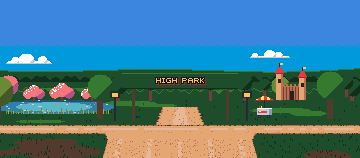
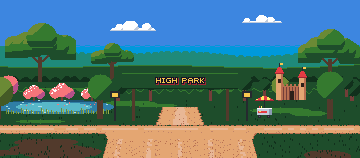
Raise High Park's skyline: tall black oaks and a far wooded ridge over the canopy, clouds higher, and an oak and the ridge on its path card

Changed region(s): [[0.0, 0.1266, 1.0, 0.5316], [0.3056, 0.1266, 0.4278, 0.2025], [0.6722, 0.0759, 0.7944, 0.1519]]

diff --git a/art/tools/backdrops.py b/art/tools/backdrops.py
@@ -12,8 +12,8 @@ its items spawn: only the verge's ground.
 
 Rows, in band rows (0 to 157): the sky is one flat colour above row 45 (CALM), under the message
 strip (band rows 6 to 57 while a message shows), but any neighbourhood's skyline may rise above
-it (Cabbagetown's old trees, chapel spire, far downtown towers and stars; and Yonge Street's
-skyline, moon and stars); the far side's ground row
+it (Cabbagetown's old trees, chapel spire, far downtown towers and stars; High Park's oaks,
+ridge and clouds; and Yonge Street's skyline, moon and stars); the far side's ground row
 115 (BASE), the far sidewalk 119 to 122, the far curb 123 to 124, the cross street 125 to 133
 with its centre line on row 129, the near curb 134 to 135 (none where the cross street has
 none), the near sidewalk 136 to 138, and the stub from row 139 (STUB, the approach) to the
@@ -75,7 +75,7 @@ def word(cv, s, mid, y, col, scale=1):
 
 def sky(cv, top="cyan", low="sky", clouds=()):
     """The sky: top, flat, down to row CALM, then low, with clouds given as (x, base row, width,
-    puff): puff is the tallest lobe's radius, and a cloud's top stays below CALM."""
+    puff): puff is the tallest lobe's radius."""
     cv.fill(0, 0, W, FAR_WALK, low)
     cv.fill(0, 0, W, CALM, top)
     for i in range(0, W, 5):
@@ -337,8 +337,8 @@ BASE = STUB - 24               # the far side's ground row: the houses stand on 
 # The sky above row CALM, 70 rows over the far side's ground row, is one flat colour: the debuff bars and the
 # message strip (band rows 6 to 57 while a message shows) lie over it, so each neighbourhood's main read stays
 # below it. Any neighbourhood's skyline may rise above it, reading half covered while a message shows:
-# Cabbagetown's old trees, chapel spire, far downtown towers and stars; and Yonge Street's skyline, moon and
-# stars.
+# Cabbagetown's old trees, chapel spire, far downtown towers and stars; High Park's oaks, ridge and clouds;
+# and Yonge Street's skyline, moon and stars.
 CALM = BASE - 70
 
 
@@ -972,13 +972,67 @@ def hot_dog_cart(cv, cx, base):
         cv.fill(x, base - 2, 1, 1, "ash")
 
 
+def ridge(cv, top, bottom, col, seed, amp=6, r=4):
+    """A far wooded ridge in col: round treetops of radius about r along a rolling crest from row
+    top (amp rows lower at its dips), filled down to row bottom."""
+    rnd = random.Random(f"ridge-{seed}")
+    crest = [top + amp * (0.5 + 0.5 * math.sin(x * 0.011 + seed) * math.cos(x * 0.027 + seed * 2.1))
+             for x in range(W)]
+    tops = [bottom] * W
+    cx = -r
+    while cx < W + r:
+        rr = r + rnd.choice((-1, 0, 0, 1))
+        cy = crest[min(W - 1, max(0, round(cx)))] + rr
+        for x in range(max(0, round(cx - rr)), min(W, round(cx + rr) + 1)):
+            d = (x + 0.5 - cx) / rr
+            if abs(d) <= 1:
+                tops[x] = min(tops[x], round(cy - rr * math.sqrt(1 - d * d)))
+        cx += rr * 1.5
+    for x in range(W):
+        cv.fill(x, tops[x], 1, bottom - tops[x], col)
+
+
+def oak(cv, cx, top, w, base, seed, lit="canopy", shade="pine", hi="olive", trunk="bark"):
+    """A tall black oak of the savannah: a trunk on row base forking under a broad, ragged crown w
+    wide of flat-bottomed lobes, its top on row top; hi on the lit upper left, shade on the lower
+    right and along each lobe's underside."""
+    rnd = random.Random(f"oak-{seed}")
+    h = round(w * 0.62)
+    lobes = []
+    for i in range(6):
+        lx = cx + (i - 2.5) / 2.5 * w * 0.36 + rnd.uniform(-2, 2)
+        ly = top + h * 0.5 + abs(i - 2.5) * h * 0.08 + rnd.uniform(-2, 2)
+        lobes.append((lx, ly, w * rnd.uniform(0.2, 0.26), h * rnd.uniform(0.32, 0.4)))
+    lobes.append((cx + rnd.uniform(-3, 3), top + h * 0.36, w * 0.24, h * 0.36))
+    under = top + h
+    cv.fill(cx - 2, under - 6, 4, base - under + 6, trunk)
+    for k in range(8):
+        cv.fill(cx - 3 - k, under - 2 - k, 2, 2, trunk)
+        cv.fill(cx + 2 + k, under - 3 - k, 2, 2, trunk)
+    for py in range(top - 2, under + 2):
+        for px in range(round(cx - w / 2) - 3, round(cx + w / 2) + 4):
+            inside = [(lx, ly, rx, ry) for lx, ly, rx, ry in lobes
+                      if ((px + 0.5 - lx) / rx) ** 2 + ((py + 0.5 - ly) / ry) ** 2 <= 1 and py < ly + ry * 0.6]
+            if not inside:
+                continue
+            lx, ly, rx, ry = min(inside, key=lambda q: q[1])
+            u, v = (px + 0.5 - lx) / rx, (py + 0.5 - ly) / ry
+            c = shade if v > 0.25 or u + v > 0.9 else hi if u + v < -0.75 and v < -0.2 else lit
+            cv.fill(px, py, 1, 1, c)
+
+
 def high_park():
     cv = sn.Canvas(W, H)
-    # a deep clear blue, two white clouds over the canopy
-    sky(cv, "azure", "sky", clouds=((6, BASE - 52, 46, 8), (CX + 70, BASE - 58, 40, 6)))
-    # the park's dense canopy runs back over the hills: dark green rises and a fir tree line
-    hills(cv, BASE - 50, BASE - 18, "pine", "canopy", 0.4, 8)
+    # a deep clear blue, two white clouds high over the oaks
+    sky(cv, "azure", "sky", clouds=((CX - 70, 30, 46, 8), (CX + 62, 22, 40, 6)))
+    # a far wooded ridge, dturq in the haze, then the park's dense canopy over the near hills:
+    # dark green rises and a fir tree line
+    ridge(cv, BASE - 70, BASE - 40, "dturq", 1.3, amp=12, r=5)
+    hills(cv, BASE - 54, BASE - 18, "pine", "canopy", 0.4, 8)
     treeline(cv, BASE - 34, ("fir", "pine"), 0.9, 3, 8)
+    # the black oaks of the savannah stand tall over the canopy at the band's edges and by the pond
+    for cx, top, w, seed in ((40, BASE - 92, 64, 1), (CX + 150, BASE - 86, 58, 2), (112, BASE - 72, 36, 3)):
+        oak(cv, cx, top, w, BASE - 26, seed)
     patches = [(60, BASE - 26, 30, 2), (CX + 40, BASE - 24, 24, 2), (CX - 50, BASE - 12, 26, 3),
                (CX - 24, BASE - 10, 20, 2), (CX + 100, BASE - 5, 30, 3), (CX + 128, BASE - 2, 18, 3),
                (40, BASE + 6, 24, 2)]

diff --git a/art/tools/cards.py b/art/tools/cards.py
@@ -865,11 +865,20 @@ def high_park_view():
     # the cross path's middle worn skin1 in broken runs, as the backdrop's, with no line painted on it
     a = ZoneView("high-park", trail, dark, "skin1", (9, 13), curb=None, walk=None, lawn=dark)
     a.sky("azure", "sky")
-    bd.cloud(a, 54, 5, 16, 3, 2)
+    # the far ridge in dturq, then the canopy, a tall oak over it on the right
+    for x in range(AW):
+        top = 6 + round(2 * (0.5 + 0.5 * math.sin(x * 0.6) * math.cos(x * 0.23)))
+        a.fill(x, top, 1, 15 - top, "dturq")
     a.treeline(15, ("fir", "pine"), 0, 2, 6)
     a.fill(0, 15, AW, FAR_Y - 15, "pine")
+    # the oak: a broad flat-bottomed crown, olive on its lit upper left, pine underneath
+    a.fill(68, 8, 2, 10, "bark")
+    for py in range(1, 10):
+        for px in range(61, AW):
+            u, v = (px + 0.5 - 69) / 7.5, (py + 0.5 - 6) / 4.5
+            if u * u + v * v <= 1 and py < 9:
+                a.fill(px, py, 1, 1, "pine" if v > 0.3 else "olive" if u + v < -0.6 else "canopy")
     bd.tree(a, 4, 9, "pink", "mauve", r=6, base=18, girth=2)
-    bd.tree(a, 71, 10, "canopy", "pine", r=5, base=18, girth=2)
     for x in (11, 62):
         a.fill(x, 1, 2, FAR_Y - 1, "bark")
     a.fill(13, 2, 49, 17, "pine")

diff --git a/art/style-guide.md b/art/style-guide.md
@@ -327,7 +327,7 @@ People, traffic, lawn animals and sky movers that pass by with no collisions and
 
 Backdrops are 360×158 on screen rows 48 to 205 (`art/tools/backdrops.py`); band row y is screen row 48 + y. The band, its approach rows and the camera come from `shared/export/layout.json`. The street ends at a T-junction: the approach rows continue the road's projection (in play the road surface scrolls over them), and above them runs a flat cross street, beyond which the far side faces the camera. The tool's docstring lists the rows.
 
-- The debuff bars and the message strip lie over the band's top rows (the strip on rows 6 to 57, while a message shows), so the sky above row 45 is one flat colour and each neighbourhood's main read stays below the strip. Any neighbourhood's skyline may rise above row 45, under the bars' and the strip's opaque plates, where scenery that rises into the strip still reads half covered: Cabbagetown's old trees, the Necropolis chapel's spire and the far downtown towers, the CN Tower among them, with its first stars above them; and Yonge Street's skyline, moon and stars.
+- The debuff bars and the message strip lie over the band's top rows (the strip on rows 6 to 57, while a message shows), so the sky above row 45 is one flat colour and each neighbourhood's main read stays below the strip. Any neighbourhood's skyline may rise above row 45, under the bars' and the strip's opaque plates, where scenery that rises into the strip still reads half covered: Cabbagetown's old trees, the Necropolis chapel's spire and the far downtown towers, the CN Tower among them, with its first stars above them; High Park's oaks, far ridge and clouds; and Yonge Street's skyline, moon and stars.
 - Darkness varies: The Beaches bright and open, the Distillery District at golden hour, High Park under a clear blue sky, Cabbagetown at dusk, Yonge Street an evening downtown and Kensington Market darkest, a Pedestrian Sunday at twilight.
 - The CN Tower is huge and close on Yonge Street's skyline, the tallest structure in the city: its antenna runs off the band's top over the SkyPod and its window ring, the main pod, 43 wide with its lit window rings in 2px clusters, sits near the top, and the shaft flares from 9 columns under the pod to 29 at the street, widening faster toward its foot as the real tower's three legs do. The other towers step up toward the top third below the pod, and those either side of its shaft stay low. The message strip covers band rows 6 to 57 while a message shows, so the screens and signs sit below row 57.
 - Yonge Street's night is lit in big, clean shapes, never speckle: windows in 2×2 blocks lit in runs along each floor, the 2× LIVE! screen and its ad screens, a WOOF! screen on the glass tower at the left, 2px marquee bulbs (the EATON CENTRE sign, the ELGIN blade, the SHOW marquee), the street's glow a ramp step up the towers' feet, and each lit podium's light on the far sidewalk. It is seen from far off: building masses, lit window runs, screens and signs, with no doors, shopfronts, awnings or people; the Eaton Centre is one huge glass mall under its galleria vault, with no entrance.
@@ -338,7 +338,7 @@ Backdrops are 360×158 on screen rows 48 to 205 (`art/tools/backdrops.py`); band
 
 ## Skies
 
-- Each neighbourhood has its own sky, flat above `CALM` (70 rows over the far side's ground row) but for what rises into it: Cabbagetown's trees, spire and downtown towers; and Yonge Street's towers. Ink edges hold 3:1 or more on every sky but Kensington Market's violet and purple (2.8:1 and 2.0:1), where a sky mover reads by its fills.
+- Each neighbourhood has its own sky, flat above `CALM` (70 rows over the far side's ground row) but for what rises into it: Cabbagetown's trees, spire and downtown towers; High Park's oaks, ridge and clouds; and Yonge Street's towers. Ink edges hold 3:1 or more on every sky but Kensington Market's violet and purple (2.8:1 and 2.0:1), where a sky mover reads by its fills.
 
 | Sky                                   | Bands or colours                                                     | Where                                          |
 | ------------------------------------- | -------------------------------------------------------------------- | ---------------------------------------------- |
